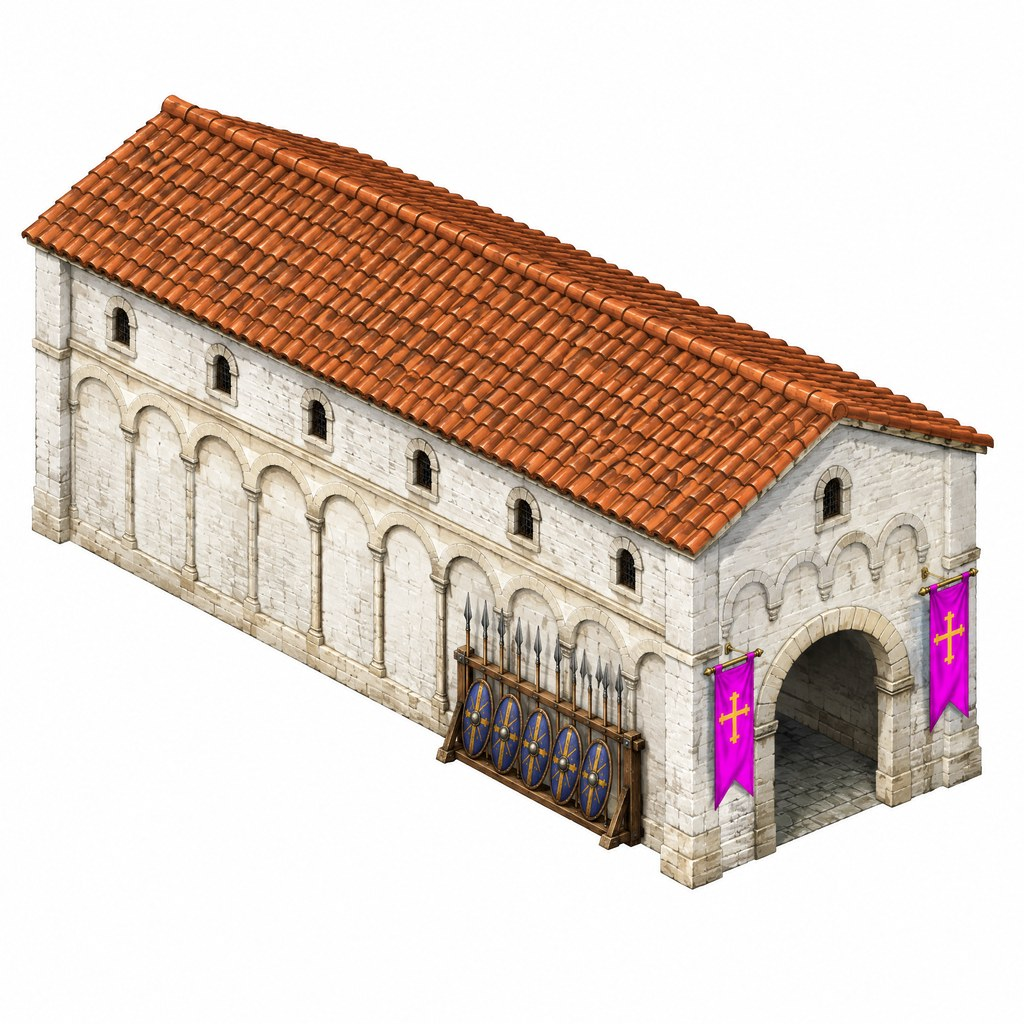
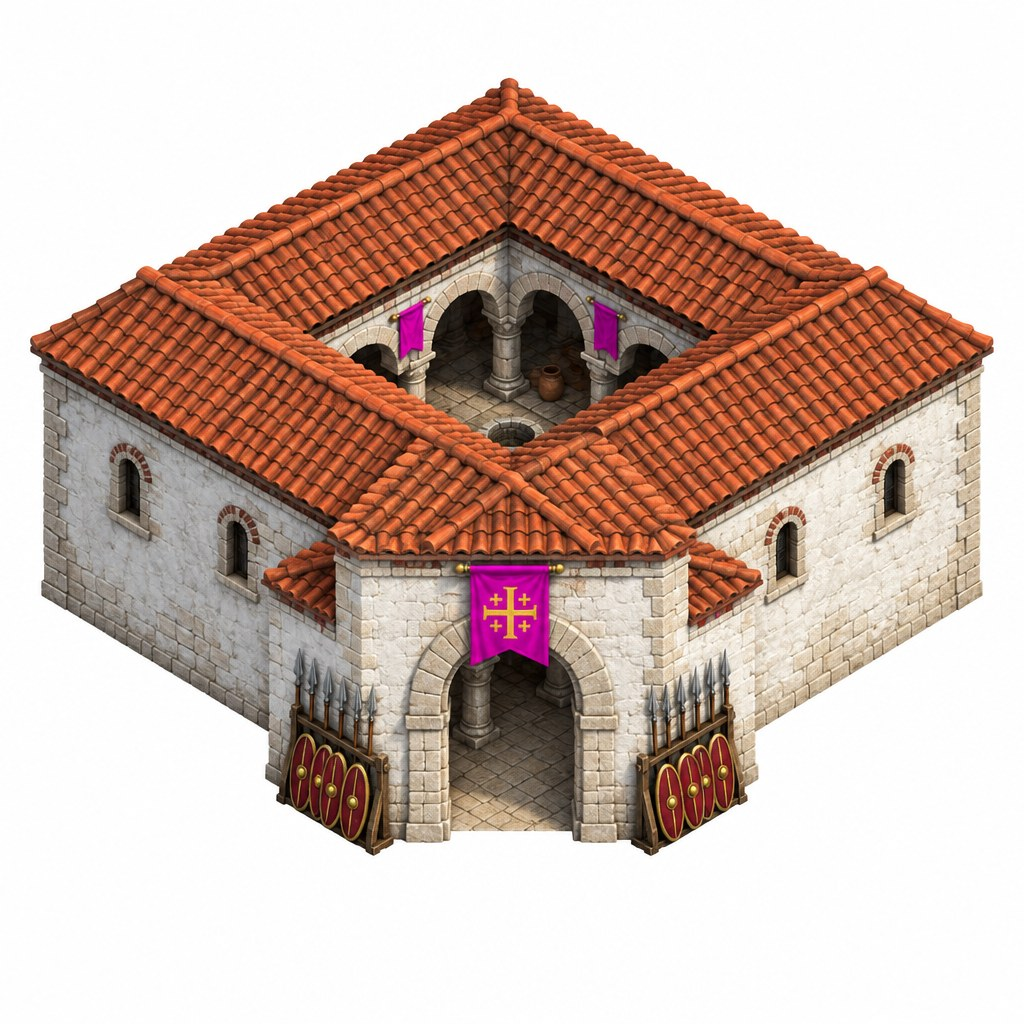
Square Dark Age Town Centers and barracks that fit their plots; zoom buttons
- seven buildings were long halls that spilled past a square footprint; repainted
  square-planned with Kie, using the well-fitting Feudal buildings as shape guides
- process_art.py knows the 4x4 Town Center, 3x3 farm and 4x4 Siege Workshop
- + and − buttons ease the camera in and out, so zoom never depends on pinch

Claude-Session: https://claude.ai/code/session_01Kh61o643ycZGrcqCLU97Et

diff --git a/js/ui.js b/js/ui.js
@@ -488,6 +488,21 @@ document.addEventListener('touchmove', e => { if (e.touches.length > 1) e.preven
   // minimap on/off (remembered)
   function applyMap() { document.body.classList.toggle('mm-off', !!prefs.mmOff); $('btn-map').classList.toggle('on', !prefs.mmOff); }
   $('btn-map').onclick = () => { prefs.mmOff = !prefs.mmOff; savePrefs(); applyMap(); };
+  // Zoom buttons: a pinch can be taken by the app the game is shown in, so zoom never
+  // depends on it. Each tap eases the camera in or out about the middle of the screen.
+  let zoomAnim = null;
+  function zoomBy(f) {
+    const from = G.camera.zoom, to = Math.max(G.minZoom || 0.45, Math.min(2.2, from * f)), t0 = performance.now();
+    if (zoomAnim) cancelAnimationFrame(zoomAnim);
+    const step = now => {
+      const k = Math.min(1, (now - t0) / 180), e = 1 - (1 - k) * (1 - k);
+      G.camera.zoom = from + (to - from) * e;
+      if (k < 1) zoomAnim = requestAnimationFrame(step); else zoomAnim = null;
+    };
+    zoomAnim = requestAnimationFrame(step);
+  }
+  $('btn-zin').onclick = () => zoomBy(1.3);
+  $('btn-zout').onclick = () => zoomBy(1 / 1.3);
   applyMap();
   $('btn-home').onclick = () => {
     const tc = G.ents.find(e => !e.dead && e.owner === 1 && e.type === 'towncenter') || G.ents.find(e => !e.dead && e.owner === 1);

diff --git a/style.css b/style.css
@@ -396,3 +396,9 @@ body.mm-off #minimap { display: none; }
 #start:not(.begun) .mainmenu { display: none; }
 #start .mainmenu { animation: menuIn 0.6s ease-out; }
 @keyframes menuIn { from { opacity: 0; transform: translateY(8px); } to { opacity: 1; transform: none; } }
+
+/* zoom buttons under the side column */
+.zoombtns { display: flex; flex-direction: column; gap: 6px; margin-top: 4px; align-items: center; }
+.zbtn { width: 44px; height: 40px; border-radius: 10px; border: 2px solid #b48a3c; background: linear-gradient(#3a2a17, #1f160c);
+  color: #f1d68a; font: 700 26px/1 Georgia, serif; box-shadow: 0 2px 6px rgba(0,0,0,.5); padding: 0; }
+.zbtn:active { transform: scale(0.94); }

diff --git a/index.html b/index.html
@@ -33,6 +33,7 @@
     <button id="btn-box" class="sidebtn" aria-label="Box select"><img src="assets/ui/icons/box.png" alt=""></button>
     <button id="btn-home" class="sidebtn" aria-label="Go to Town Center"><img src="assets/ui/icons/home.png" alt=""></button>
     <button id="btn-map" class="sidebtn" aria-label="Show or hide the map"><img src="assets/ui/icons/menu.png" alt=""></button>
+    <div class="zoombtns"><button id="btn-zin" class="zbtn" aria-label="Zoom in">+</button><button id="btn-zout" class="zbtn" aria-label="Zoom out">&minus;</button></div>
   </div>
 
   <canvas id="minimap" width="160" height="80"></canvas>

diff --git a/tools/process_art.py b/tools/process_art.py
@@ -27,20 +27,20 @@ OUT_SCALE = 2  # store at 2x for sharp phones
 # source file stem -> (game key, footprint tiles, footprint fudge)
 ASSETS = {
     'house': ('house', 2, 1.0),
-    'town_center': ('towncenter', 3, 1.0),
+    'town_center': ('towncenter', 4, 1.0),
     'barracks': ('barracks', 3, 1.0),
     'archery_range': ('range', 3, 1.0),
     'stable': ('stable', 3, 1.0),
     'mill': ('mill', 2, 1.0),
     'lumber_camp': ('lumbercamp', 2, 1.0),
     'mining_camp': ('miningcamp', 2, 1.0),
-    'farm': ('farm', 2, 1.0),
+    'farm': ('farm', 3, 1.0),
     # the harvested field's fence sits lower, so the footprint detector reads it wide;
     # this fudge lines it up exactly with the standing crop it replaces
     'farm_spent': ('farm_spent', 2, 0.6755),
     'watch_tower': ('tower', 1, 1.0),
     'blacksmith': ('blacksmith', 3, 1.0),
-    'siege_workshop': ('siegeworkshop', 3, 1.0),
+    'siege_workshop': ('siegeworkshop', 4, 1.0),
     'monastery': ('monastery', 3, 1.0),
     'castle': ('castle', 4, 1.0),
     'construction_site_1x1': ('fnd_1', 1, 1.0),
